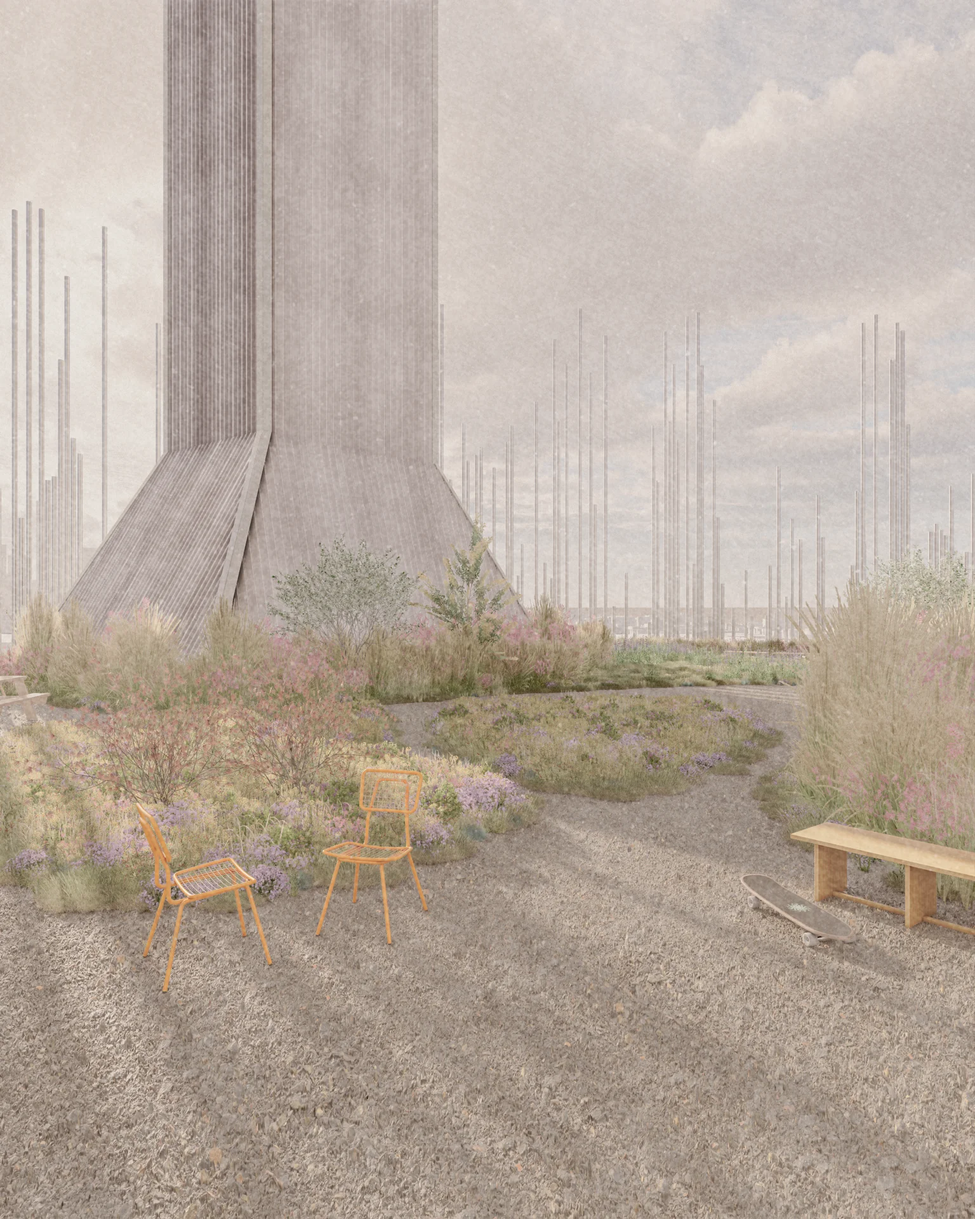
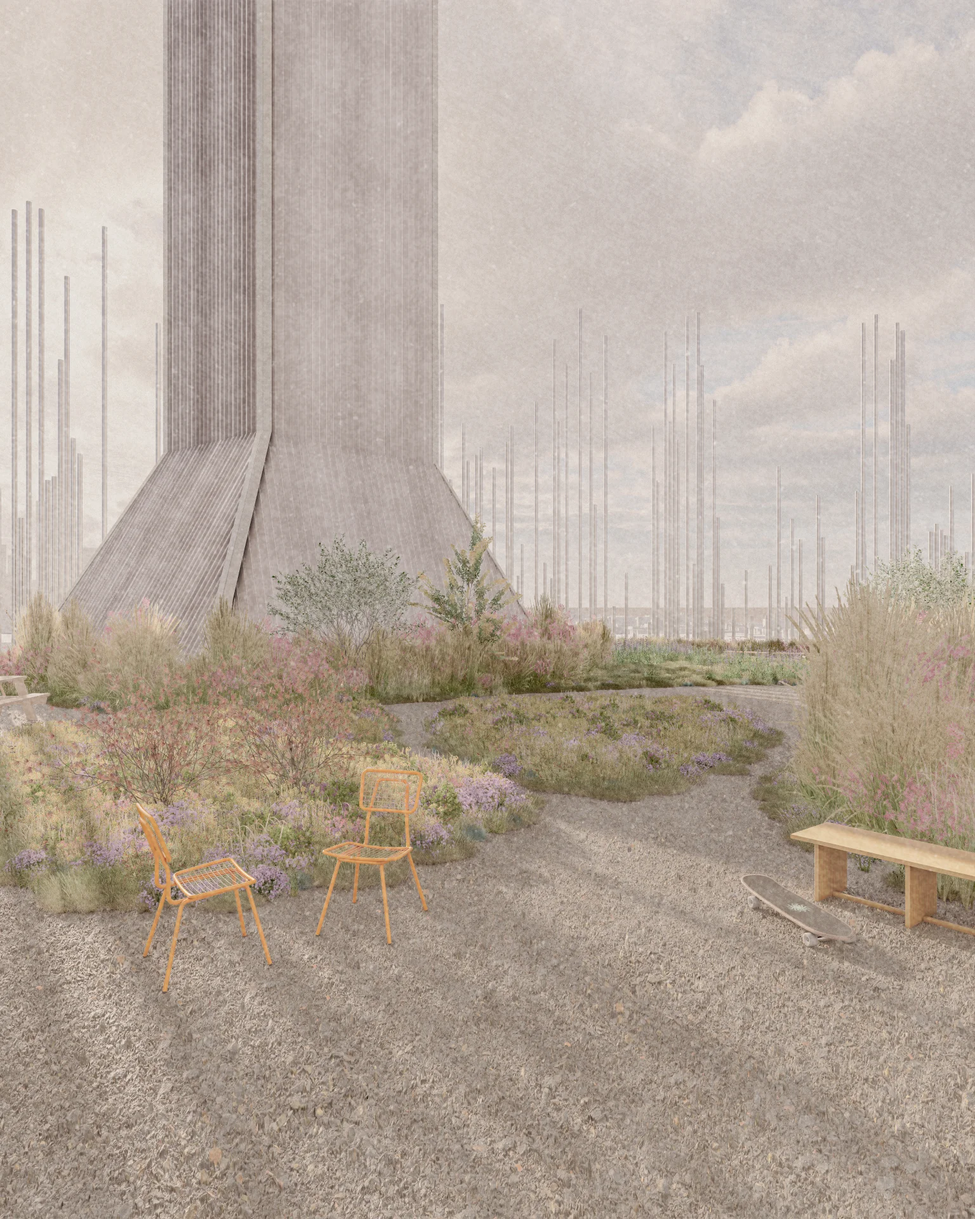
Mobile: 27px page gutter, all media at 15px (--media-edge), captions and slideshow counter on the text gutter; Vertical Ecologies: new garden render

diff --git a/main.css b/main.css
@@ -63,47 +63,50 @@
   }
 }
 
-/* Mobile: LEVEL3 media height cap (hero and non-hero media alike) */
+/* Mobile: LEVEL3 media height cap (hero and non-hero media alike); page gutter 27px
+   (1.6875rem, 3px less than the desktop value of the token) */
 @media (width < 48rem) {
   :root {
     --spacing-hero: 26rem;
+    --spacing-edge: 1.6875rem;
+    /* Mobile media gutter: every image, slideshow and embed sits 15px from the screen edges,
+       independent of the text gutter above */
+    --media-edge: 0.9375rem;
   }
 }
 
-/* Mobile: the hero (the article's first media block) sits at half the page gutter (0.9375rem from
-   the screen edges); media further down stay on the full gutter like the text. The sheet's mobile
-   padding is one gutter per side, so the hero may use 100vw minus one gutter in total, shifted
-   left by half a gutter. All mobile media take their full available width with no height cap
-   (single images as the slideshows); local videos keep their height cap. */
+/* Mobile: all article media (hero and further down) sit at the media gutter while text keeps the
+   page gutter. The sheet's mobile padding is one page gutter per side, so media are pulled left
+   by (page gutter - media gutter) and use 100vw minus two media gutters. Slideshows and Vimeo
+   embeds take that whole width, single images too (no height cap); local videos keep their
+   height cap. Captions stay on the text gutter (they are siblings of the media wraps); the
+   slideshow counter mirror is shifted back onto it in article.html. */
 @media (width < 48rem) {
   #article-hero > .article-img-wrap,
-  #article-hero > .article-video-wrap {
+  #article-hero > .article-video-wrap,
+  #article-column > .article-img-wrap,
+  #article-column > .article-video-wrap {
     align-self: flex-start;
-    margin-left: calc(var(--spacing-edge) / -2);
-    max-width: calc(100vw - var(--spacing-edge));
+    margin-left: calc(var(--media-edge) - var(--spacing-edge));
+    max-width: calc(100vw - 2 * var(--media-edge));
   }
   #article-hero > .article-img-wrap > img,
-  #article-hero > .article-video-wrap > video {
-    max-width: calc(100vw - var(--spacing-edge));
+  #article-column > .article-img-wrap > img,
+  #article-hero > .article-video-wrap > video,
+  #article-column > .article-video-wrap > video {
+    max-width: calc(100vw - 2 * var(--media-edge));
   }
-  #article-hero > .article-img-wrap:not([id]) > img {
-    width: calc(100vw - var(--spacing-edge));
+  #article-hero > .article-img-wrap:not([id]) > img,
+  #article-column > .article-img-wrap:not([id]) > img {
+    width: calc(100vw - 2 * var(--media-edge));
     height: auto;
     max-height: none;
   }
   #article-hero > .article-img-wrap[id],
-  #article-hero > .article-video-wrap:not(:has(video)) {
-    width: calc(100vw - var(--spacing-edge));
-  }
-  /* Further down: single images span the column (gutter to gutter), no height cap */
-  #article-column > .article-img-wrap:not([id]) {
-    align-self: flex-start;
-    width: 100%;
-  }
-  #article-column > .article-img-wrap:not([id]) > img {
-    width: 100%;
-    height: auto;
-    max-height: none;
+  #article-column > .article-img-wrap[id],
+  #article-hero > .article-video-wrap:not(:has(video)),
+  #article-column > .article-video-wrap:not(:has(video)) {
+    width: calc(100vw - 2 * var(--media-edge));
   }
 }
 

diff --git a/tailwind.css b/tailwind.css
@@ -394,6 +394,9 @@
   .ml-\[1rem\] {
     margin-left: 1rem;
   }
+  .ml-\[calc\(var\(--spacing-edge\)_-_var\(--media-edge\)\)\] {
+    margin-left: calc(var(--spacing-edge) - var(--media-edge));
+  }
   .ml-auto {
     margin-left: auto;
   }
@@ -1250,8 +1253,8 @@
     .max-md\:max-w-\[80\%\] {
       max-width: 80%;
     }
-    .max-md\:max-w-\[calc\(100vw_-_var\(--spacing-edge\)\)\] {
-      max-width: calc(100vw - var(--spacing-edge));
+    .max-md\:max-w-\[calc\(100vw_-_2\*var\(--media-edge\)\)\] {
+      max-width: calc(100vw - 2 * var(--media-edge));
     }
     .max-md\:shrink-0 {
       flex-shrink: 0;
@@ -1296,8 +1299,8 @@
     .max-md\:px-0\.5 {
       padding-inline: calc(var(--spacing) * 0.5);
     }
-    .max-md\:px-\[calc\(var\(--spacing-edge\)\/2\)\] {
-      padding-inline: calc(var(--spacing-edge) / 2);
+    .max-md\:px-\[var\(--media-edge\)\] {
+      padding-inline: var(--media-edge);
     }
     .max-md\:px-edge {
       padding-inline: var(--spacing-edge);
@@ -1602,31 +1605,24 @@
 @media (width < 48rem) {
   :root {
     --spacing-hero: 26rem;
+    --spacing-edge: 1.6875rem;
+    --media-edge: 0.9375rem;
   }
-  #article-hero > .article-img-wrap, #article-hero > .article-video-wrap {
+  #article-hero > .article-img-wrap, #article-hero > .article-video-wrap, #article-column > .article-img-wrap, #article-column > .article-video-wrap {
     align-self: flex-start;
-    margin-left: calc(var(--spacing-edge) / -2);
-    max-width: calc(100vw - var(--spacing-edge));
+    margin-left: calc(var(--media-edge) - var(--spacing-edge));
+    max-width: calc(100vw - 2 * var(--media-edge));
   }
-  #article-hero > .article-img-wrap > img, #article-hero > .article-video-wrap > video {
-    max-width: calc(100vw - var(--spacing-edge));
+  #article-hero > .article-img-wrap > img, #article-column > .article-img-wrap > img, #article-hero > .article-video-wrap > video, #article-column > .article-video-wrap > video {
+    max-width: calc(100vw - 2 * var(--media-edge));
   }
-  #article-hero > .article-img-wrap:not([id]) > img {
-    width: calc(100vw - var(--spacing-edge));
+  #article-hero > .article-img-wrap:not([id]) > img, #article-column > .article-img-wrap:not([id]) > img {
+    width: calc(100vw - 2 * var(--media-edge));
     height: auto;
     max-height: none;
   }
-  #article-hero > .article-img-wrap[id], #article-hero > .article-video-wrap:not(:has(video)) {
-    width: calc(100vw - var(--spacing-edge));
-  }
-  #article-column > .article-img-wrap:not([id]) {
-    align-self: flex-start;
-    width: 100%;
-  }
-  #article-column > .article-img-wrap:not([id]) > img {
-    width: 100%;
-    height: auto;
-    max-height: none;
+  #article-hero > .article-img-wrap[id], #article-column > .article-img-wrap[id], #article-hero > .article-video-wrap:not(:has(video)), #article-column > .article-video-wrap:not(:has(video)) {
+    width: calc(100vw - 2 * var(--media-edge));
   }
 }
 @media (hover: hover) and (pointer: fine) {

diff --git a/_layouts/home.html b/_layouts/home.html
@@ -17,7 +17,7 @@
   {% include header-nav.html level=1 row2=header_row2 %}
 
   <!-- Full-window at md; navbar is overlaid on top, no header-height compensation -->
-  <div class="flex-1 relative md:absolute md:inset-0 overflow-hidden pt-[1.5rem] md:pt-0 px-[3rem] max-md:px-[calc(var(--spacing-edge)/2)] pb-[1.875rem] md:pb-0" id="content-area">
+  <div class="flex-1 relative md:absolute md:inset-0 overflow-hidden pt-[1.5rem] md:pt-0 px-[3rem] max-md:px-[var(--media-edge)] pb-[1.875rem] md:pb-0" id="content-area">
 
     <main class="relative w-full h-full overflow-hidden" id="post-feed">
 
@@ -33,7 +33,7 @@
           <!-- Centred in the content area, shifted up a fixed offset (the -0.8rem). Mobile: the
                header (rows 1+2) is in flow, so a plain 50% centres on the remaining content area. -->
           <div class="absolute top-[calc(50%-0.8rem)] max-md:top-[calc(50%)] left-1/2 -translate-x-1/2 -translate-y-1/2 z-20 cursor-enter will-change-transform max-md:pointer-events-none" onclick="event.stopPropagation(); goToCurrentArticle();">
-            <img src="{{ article.url | relative_url }}{{ article.teaser }}" alt="{{ article.title }}" decoding="async" class="max-w-[min(59.0625rem,calc(100vw_-_6rem))] max-md:max-w-[calc(100vw_-_var(--spacing-edge))] max-h-[min(26.5625rem,calc(100svh_-_11.875rem))] md:max-h-[min(32.140625rem,calc(100svh_-_11.875rem))] w-auto h-auto block">
+            <img src="{{ article.url | relative_url }}{{ article.teaser }}" alt="{{ article.title }}" decoding="async" class="max-w-[min(59.0625rem,calc(100vw_-_6rem))] max-md:max-w-[calc(100vw_-_2*var(--media-edge))] max-h-[min(26.5625rem,calc(100svh_-_11.875rem))] md:max-h-[min(32.140625rem,calc(100svh_-_11.875rem))] w-auto h-auto block">
           </div>
         </div>
         {% endif %}

diff --git a/_layouts/article.html b/_layouts/article.html
@@ -304,7 +304,8 @@
         var frame   = wrap ? wrap.querySelector('.ss-frame') : null;
         if (counter && frame) {
           var mirror = document.createElement('div');
-          mirror.className = 'md:hidden font-sabon text-[1rem] text-ink leading-[1.4] whitespace-nowrap mb-1.5';
+          // back on the text gutter (the wrap sits at the 15px media gutter, see main.css)
+          mirror.className = 'md:hidden font-sabon text-[1rem] text-ink leading-[1.4] whitespace-nowrap mb-1.5 ml-[calc(var(--spacing-edge)_-_var(--media-edge))]';
           mirror.dataset.ssCounterFor = wrap.id;
           mirror.textContent = counter.textContent;
           wrap.insertBefore(mirror, frame);
